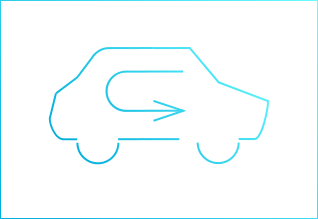
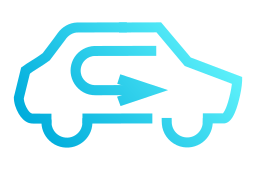
Images and behaviour in HVAC

Changed region(s): [[0.0, 0.0, 1.0, 1.0]]

diff --git a/lib/page_hvac.dart b/lib/page_hvac.dart
@@ -92,9 +92,19 @@ class HVACPage extends StatefulWidget {
   State<HVACPage> createState() => _HVACPageState();
 }
 
-String chairOn = 'images/HMI_HVAC_Left_Chair_ON.png';
-String chairOff = 'images/HMI_HVAC_Right_Chair_ON.png';
-bool selected = true; // Get from API
+String leftChairOn = 'images/HMI_HVAC_Left_Chair_ON.png';
+String leftChairOff = 'images/HMI_HVAC_Left_Chair_OFF.png';
+String rightChairOn = 'images/HMI_HVAC_Right_Chair_ON.png';
+String rightChairOff = 'images/HMI_HVAC_Right_Chair_OFF.png';
+String circulationActive = 'images/HMI_HVAC_Circulation_Active.png';
+String circulationInactive = 'images/HMI_HVAC_Circulation_Inactive.png';
+
+// Get from API
+bool leftChairSelected = true;
+bool rightChairSelected = true;
+bool ACSelected = true;
+bool autoSelected = true;
+bool circulationSelected = true;
 
 class _HVACPageState extends State<HVACPage> {
   final double fanSpeed = 20;
@@ -105,6 +115,9 @@ class _HVACPageState extends State<HVACPage> {
     TextStyle buttonTextStyle = DefaultTextStyle.of(context).style.copyWith(
           fontSize: sizeHelper.baseFontSize,
         );
+    TextStyle unselectedButtonTextStyle = buttonTextStyle.copyWith(
+      color: Colors.grey,
+    );
 
     Widget fanSpeedControl = Container(
       padding: EdgeInsets.symmetric(
@@ -131,12 +144,14 @@ class _HVACPageState extends State<HVACPage> {
         children: [
           IconButton(
             iconSize: sizeHelper.largeIconSize,
-            icon: Image.asset(selected ? chairOn : chairOff,
+            icon: Image.asset(leftChairSelected ? leftChairOn : leftChairOff,
                 width: sizeHelper.largeIconSize,
                 height: sizeHelper.largeIconSize,
                 fit: BoxFit.contain),
             onPressed: () {
-              selected = !selected;
+              setState(() {
+                leftChairSelected = !leftChairSelected;
+              });
             },
           ),
           SizedBox(height: sizeHelper.defaultPadding),
@@ -149,10 +164,18 @@ class _HVACPageState extends State<HVACPage> {
       padding: EdgeInsets.all(sizeHelper.defaultPadding),
       child: Column(
         children: [
-          Image.asset('images/HMI_HVAC_Right_Chair_ON.png',
-              width: sizeHelper.largeIconSize,
-              height: sizeHelper.largeIconSize,
-              fit: BoxFit.contain),
+          IconButton(
+            iconSize: sizeHelper.largeIconSize,
+            icon: Image.asset(rightChairSelected ? rightChairOn : rightChairOff,
+                width: sizeHelper.largeIconSize,
+                height: sizeHelper.largeIconSize,
+                fit: BoxFit.contain),
+            onPressed: () {
+              setState(() {
+                rightChairSelected = !rightChairSelected;
+              });
+            },
+          ),
           SizedBox(height: sizeHelper.defaultPadding),
           _TemperatureSelector(),
         ],
@@ -168,13 +191,20 @@ class _HVACPageState extends State<HVACPage> {
             height: sizeHelper.defaultButtonHeight,
             margin: EdgeInsets.all(sizeHelper.defaultPadding),
             decoration: BoxDecoration(
-                border: Border.all(color: Colors.green),
+                border: Border.all(
+                  color: ACSelected ? Colors.green : Colors.grey,
+                ),
                 borderRadius: BorderRadius.circular(20)),
             child: OutlinedButton(
               onPressed: () {
-                // Respond to button press
+                setState(() {
+                  ACSelected = !ACSelected;
+                });
               },
-              child: Text("A / C", style: buttonTextStyle),
+              child: Text(
+                "A / C",
+                style: ACSelected ? buttonTextStyle : unselectedButtonTextStyle,
+              ),
             ),
           ),
           Container(
@@ -182,13 +212,21 @@ class _HVACPageState extends State<HVACPage> {
             height: sizeHelper.defaultButtonHeight,
             margin: EdgeInsets.all(sizeHelper.defaultPadding),
             decoration: BoxDecoration(
-                border: Border.all(color: Colors.green),
+                border: Border.all(
+                  color: autoSelected ? Colors.green : Colors.grey,
+                ),
                 borderRadius: BorderRadius.circular(20)),
             child: OutlinedButton(
               onPressed: () {
-                // Respond to button press
+                setState(() {
+                  autoSelected = !autoSelected;
+                });
               },
-              child: Text("Auto", style: buttonTextStyle),
+              child: Text(
+                "Auto",
+                style:
+                    autoSelected ? buttonTextStyle : unselectedButtonTextStyle,
+              ),
             ),
           ),
           Container(
@@ -196,13 +234,20 @@ class _HVACPageState extends State<HVACPage> {
             height: sizeHelper.defaultButtonHeight,
             margin: EdgeInsets.all(sizeHelper.defaultPadding),
             decoration: BoxDecoration(
-                border: Border.all(color: Colors.green),
+                border: Border.all(
+                  color: circulationSelected ? Colors.green : Colors.grey,
+                ),
                 borderRadius: BorderRadius.circular(20)),
             child: OutlinedButton(
                 onPressed: () {
-                  // Respond to button press
+                  setState(() {
+                    circulationSelected = !circulationSelected;
+                  });
                 },
-                child: Image.asset('images/HMI_HVAC_Circulation_Inactive.png',
+                child: Image.asset(
+                    circulationSelected
+                        ? circulationActive
+                        : circulationInactive,
                     width: sizeHelper.defaultIconSize,
                     height: sizeHelper.defaultIconSize,
                     fit: BoxFit.contain)),
